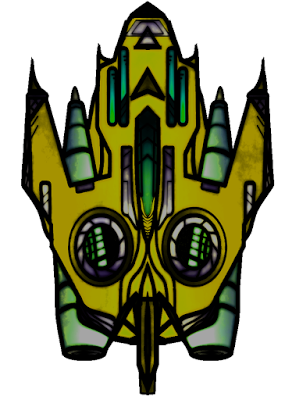
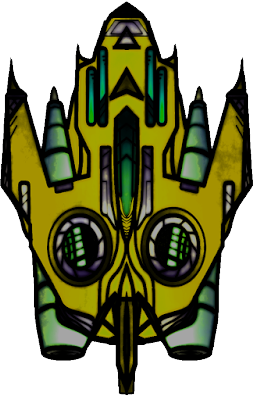
Update assets and positioning, smooth some details

diff --git a/js/player.js b/js/player.js
@@ -23,7 +23,7 @@ player.main = {
     preload : function(){
         //load images
         game.load.image('player', 'assets/player/ship.png');
-        game.load.image('bullet', 'assets/player/spr_bullet_strip.png')
+        game.load.image('bullet', 'assets/player/bullet.png')
         
         //establish keys
         keyUp = game.input.keyboard.addKey(Phaser.Keyboard.UP);
@@ -35,7 +35,6 @@ player.main = {
     
     create : function(){
         playerObj = game.add.sprite(game.width/2, game.height/2, 'player');
-        //playerObj.image.anchor.setTo(game.width/2, game.height/2);
         playerObj.scale.set(0.2,0.2);       
     },
         
@@ -75,6 +74,6 @@ player.main = {
     },
     
     fireBullet : function(){
-        this.bullets.push(game.add.sprite(playerObj.x, playerObj.y, 'bullet'));
+        this.bullets.push(game.add.sprite(playerObj.x + playerObj.width/4, playerObj.y, 'bullet'));
     }
 }

diff --git a/js/main.js b/js/main.js
@@ -8,7 +8,7 @@ bulletHeck.main = {
     
     //preload function for calling via phaser
     preload : function() {
-        game.load.image('sky', 'assets/phaser/sky.png');
+        game.load.image('space', 'assets/background.jpg');
         
         //preload the player
         player.main.preload();
@@ -17,7 +17,7 @@ bulletHeck.main = {
     //create function for calling via phaser
     create : function() {
         //  A simple background for our game
-        game.add.sprite(0, 0, 'sky');
+        game.add.sprite(0, 0, 'space');
         
         //create the player
         player.main.create();
